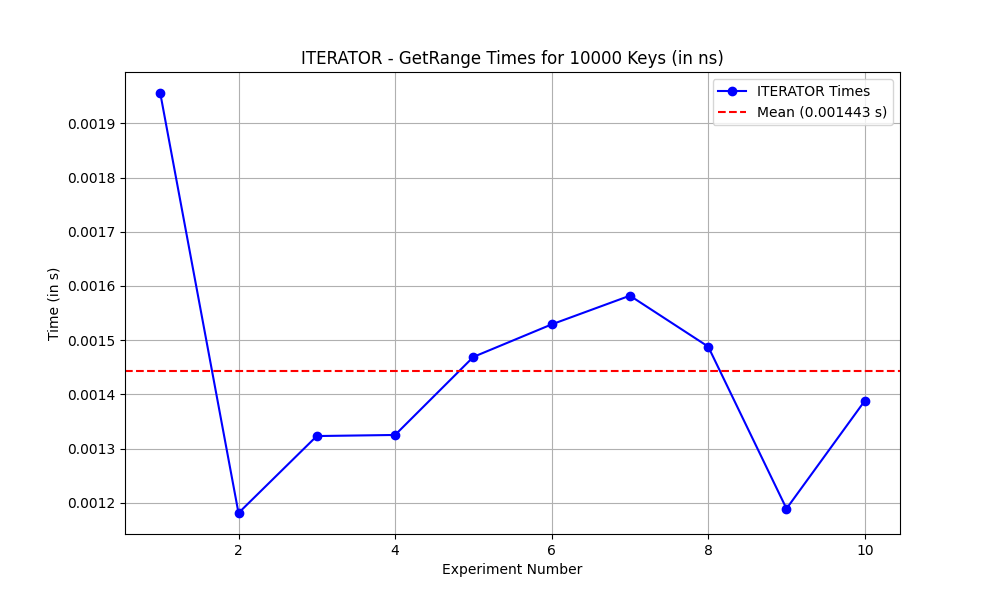
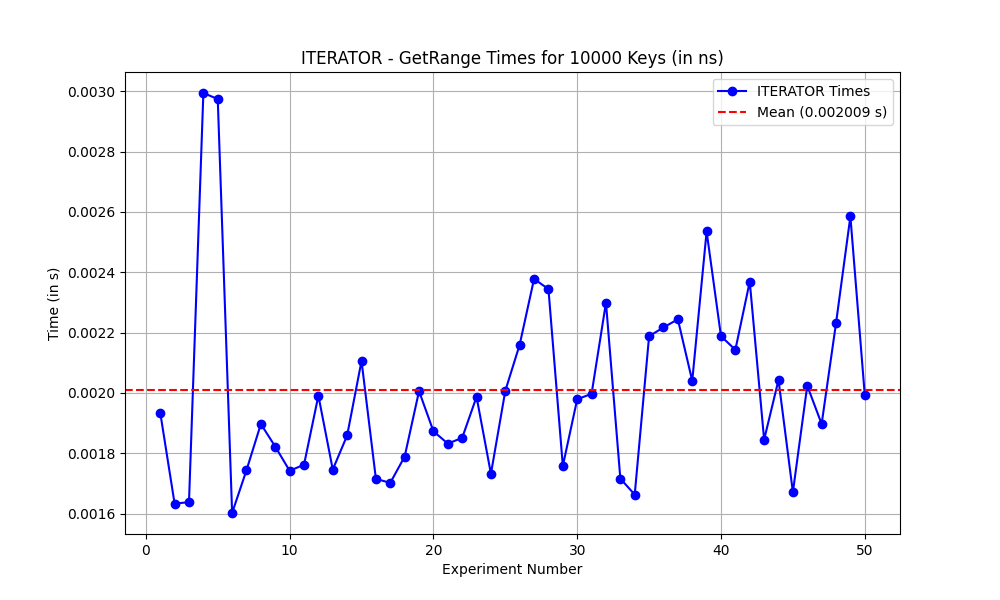
changes

diff --git a/task3/single_get_range.c b/task3/single_get_range.c
@@ -7,7 +7,7 @@
 #include <pthread.h>
 
 int  NUM_KEYS=10000;
-int NUM_EXPERIMENTS=10;
+int NUM_EXPERIMENTS=50;
 
 void check_fdb_error(fdb_error_t err) {
     if (err) {
@@ -47,33 +47,55 @@ void get_range(FDBTransaction* tr, const char* begin_key, const char* end_key, i
     const uint8_t* end_key_name = (const uint8_t*)end_key;
     int begin_key_name_length = strlen(begin_key);
     int end_key_name_length = strlen(end_key);
-    int begin_offset = 0;
-    int end_offset = 0;
-    int target_bytes = 0;
+    int rowLimit = limit > 0 ? limit : 1000;
+    int byteLimit = 100000;
     int iteration = 1;
     fdb_bool_t snapshot = 0;
     fdb_bool_t reverse = 0;
-    FDBFuture* future = fdb_transaction_get_range(tr,begin_key_name, begin_key_name_length,1,begin_offset,end_key_name, 
-                                                end_key_name_length,1,end_offset,limit,target_bytes,mode,iteration,
-                                                snapshot,reverse);
-
-    fdb_error_t err = fdb_future_block_until_ready(future);
-    check_fdb_error(err);
-
-    const FDBKeyValue* keyvalues;
-    int count;
-    int more;
-    err = fdb_future_get_keyvalue_array(future, &keyvalues, &count, &more);
-    fdb_future_destroy(future);
-    check_fdb_error(err);
-
-    // printf("Found %d key-value pairs in the range:\n", count);
-    // for (int i = 0; i < count; ++i) {
-    //     printf("Key: %.*s, Value: %.*s\n", keyvalues[i].key_length, keyvalues[i].key, keyvalues[i].value_length, keyvalues[i].value);
-    // }
-    // if (more) {
-    //     printf("There are more key-value pairs to fetch.\n");
-    // }
+    int total_count = 0;
+    int more = 1;
+    uint8_t* allocated_key = NULL;
+    while (more) {
+        FDBFuture* future = fdb_transaction_get_range(
+            tr, 
+            FDB_KEYSEL_FIRST_GREATER_OR_EQUAL(begin_key_name, begin_key_name_length), 
+            FDB_KEYSEL_FIRST_GREATER_OR_EQUAL(end_key_name, end_key_name_length), 
+            rowLimit, 
+            byteLimit, 
+            mode, 
+            iteration, 
+            snapshot, 
+            reverse
+        );
+        fdb_error_t err = fdb_future_block_until_ready(future);
+        check_fdb_error(err);
+        const FDBKeyValue* keyvalues;
+        int count;
+        err = fdb_future_get_keyvalue_array(future, &keyvalues, &count, &more);
+        fdb_future_destroy(future);
+        check_fdb_error(err);
+        total_count += count;
+        if (more) {
+            if (allocated_key) {
+                free(allocated_key);
+                allocated_key = NULL;
+            }
+            size_t next_key_length = keyvalues[count - 1].key_length + 1;
+            allocated_key = (uint8_t*)malloc(next_key_length);
+            memcpy(allocated_key, keyvalues[count - 1].key, keyvalues[count - 1].key_length);
+            allocated_key[keyvalues[count - 1].key_length] = '\0';
+            begin_key_name = allocated_key;
+            begin_key_name_length = keyvalues[count - 1].key_length + 1;
+            iteration++;
+        }
+    }
+    if (allocated_key) {
+        free(allocated_key);
+    }
+    if (total_count != NUM_KEYS) {
+        fprintf(stderr, "Error: Expected %d key-value pairs, but found %d.\n", NUM_KEYS, total_count);
+        exit(EXIT_FAILURE);
+    }
 }
 
 
@@ -105,7 +127,7 @@ void check_transaction_commit(FDBTransaction* tr) {
         exit(EXIT_FAILURE);
     } else {
         committed = 1;
-        printf("Transaction committed successfully.\n");
+        //printf("Transaction committed successfully.\n");
     }
     fdb_future_destroy(commitFuture);
 }
@@ -148,7 +170,6 @@ int main() {
         clock_t end_set_time = clock();
         double duration_set_time = (double)(end_set_time - start_set_time) / CLOCKS_PER_SEC;
         fprintf(file, "Experiment %d : Creating 10000 Keys time in s: %.6f\n", experiment + 1, duration_set_time);
-
 
         FDBTransaction* tr1;
         err = fdb_database_create_transaction(db, &tr1);
